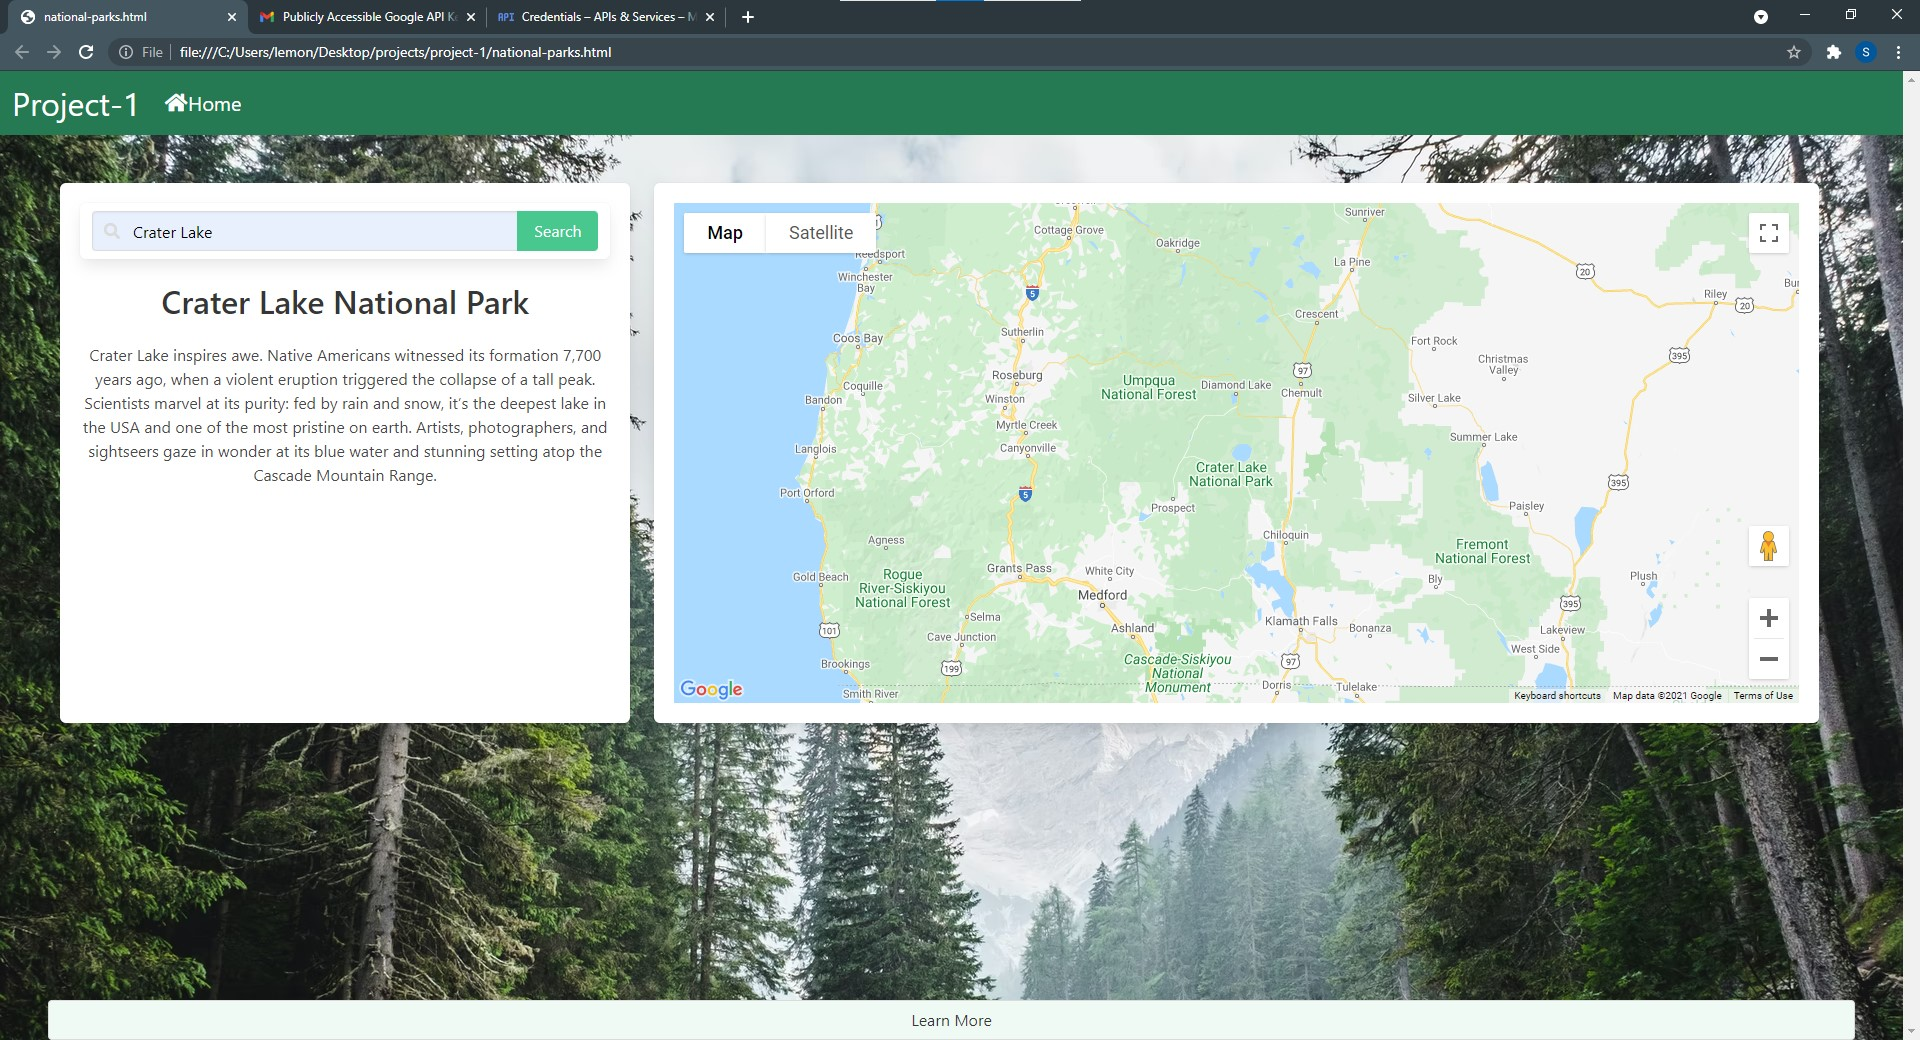
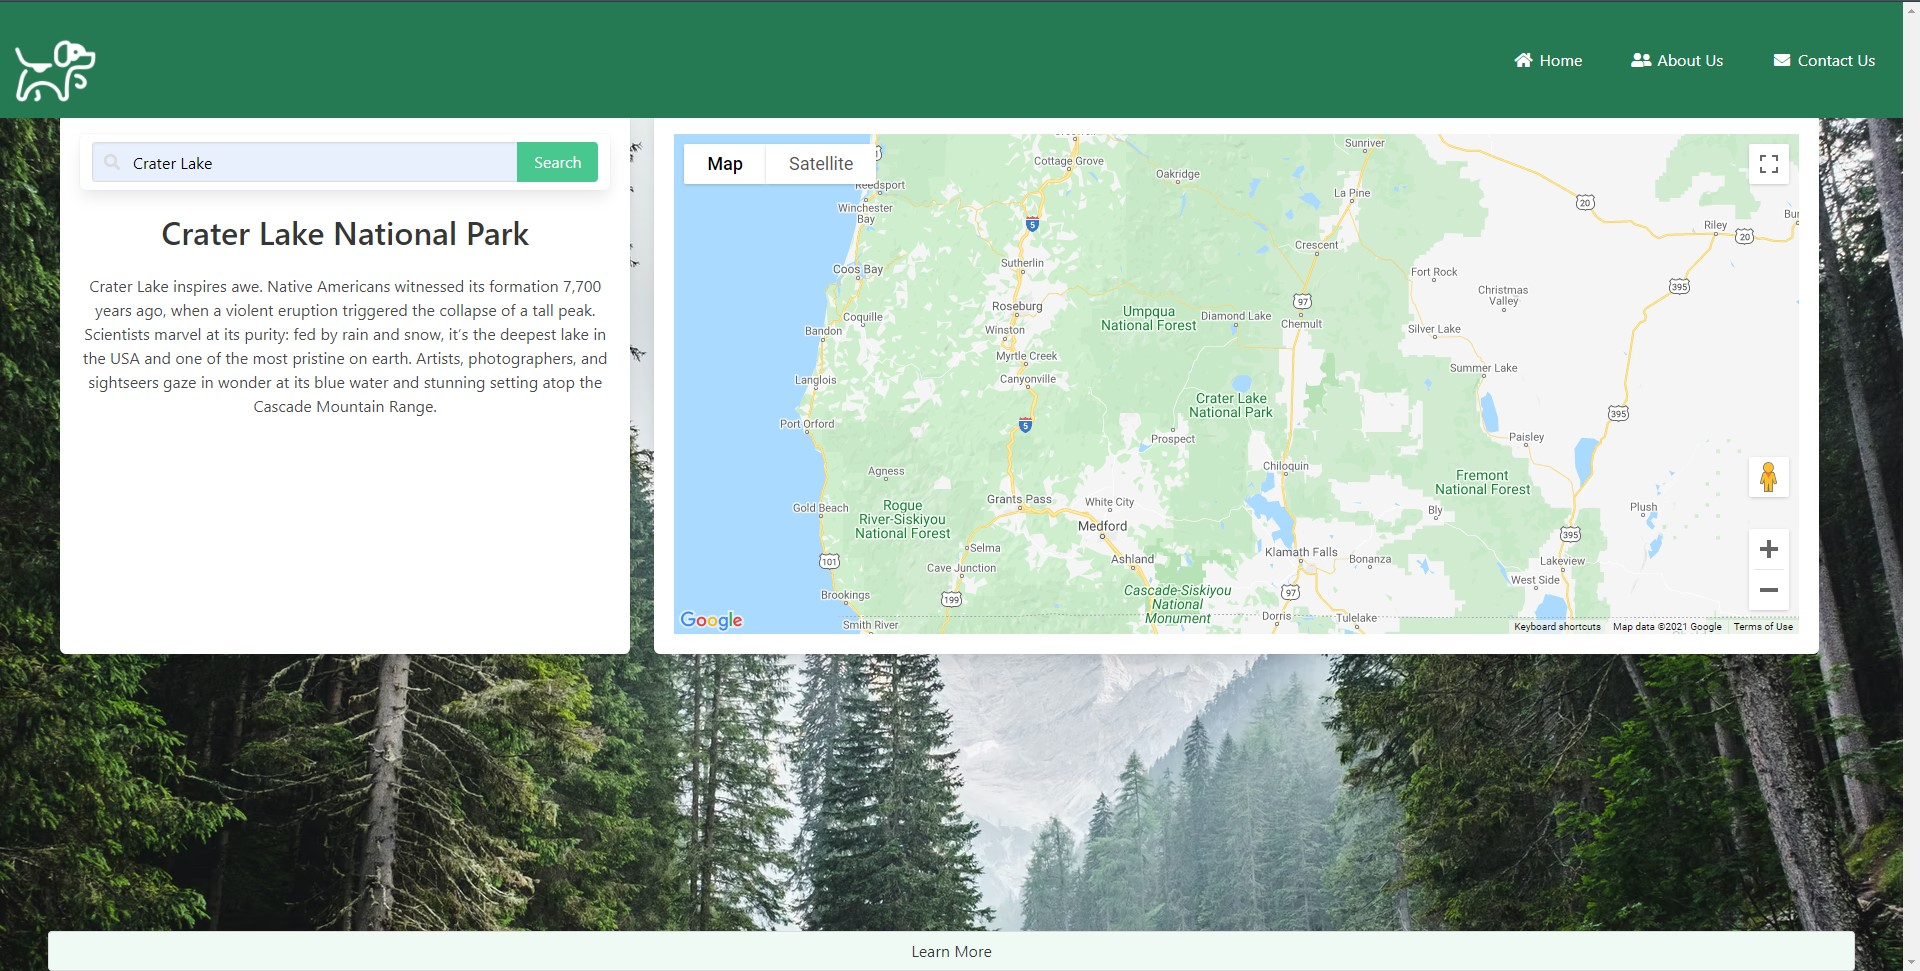
update README.md

diff --git a/national-parks.html b/national-parks.html
@@ -15,6 +15,7 @@
         <div class="navbar-brand">
             <span class="navbar-item has-text-white is-size-3"></h1>
                 <img src="./images/icons8-dog-100.png" alt="site logo" style="max-height: 100px" class="py-2"/>
+                <p>Bark!</p>
             </span>
         </div>
         <div class="navbar-menu is-active">
@@ -68,26 +69,26 @@
                                 <button class="delete" id="contact-us-close" aria-label="close"></button>
                             </header>
                             <section class="modal-card-body has-background-success-light has-text-black">
-                                <h3>Project Member 1:</h3>
+                                <h3>Luis Alonso Gallardo:</h3>
                                 <ul>
                                     <li>
-                                        <a href="githubrepositoryhere">GitHub</a>
+                                        <a href="https://github.com/L-Alonso">GitHub</a>
                                     </li>
-                                    <li><a href="mailto:(your email here)">Email</a></li>
+                                    <li><a href="mailto:(Alonso_l@icloud.com)">iCloud</a></li>
                                 </ul>
                                 <h3>Shayne Lemons:</h3>
                                 <ul>
                                     <li>
                                         <a href="https://github.com/SLemons6">GitHub</a>
                                     </li>
-                                    <li><a href="mailto:lemonsshayne6@gmail.com">Email</a></li>
+                                    <li><a href="mailto:lemonsshayne6@gmail.com">Gmail</a></li>
                                 </ul>
                                 <h3>Ben Tantillo:</h3>
                                 <ul>
                                     <li>
                                         <a href="https://github.com/BTantillo">GitHub</a>
                                     </li>
-                                    <li><a href="mailto:bentantillo@gmail.com">Email</a></li>
+                                    <li><a href="mailto:bentantillo@gmail.com">Gmail</a></li>
                                 </ul>
                             </section>
                         </div>

diff --git a/index.html b/index.html
@@ -87,9 +87,9 @@
                                 <h3>Ben Tantillo:</h3>
                                 <ul>
                                     <li>
-                                        <a href="githubrepositoryhere">GitHub</a>
+                                        <a href="https://github.com/BTantillo">GitHub</a>
                                     </li>
-                                    <li><a href="mailto:(your email here)">Email</a></li>
+                                    <li><a href="mailto: bentantillo@gmail.com">Email</a></li>
                                 </ul>
                             </section>
                         </div>

diff --git a/js/script.js b/js/script.js
@@ -68,12 +68,17 @@ function parkSearch(parkName) {
         .catch(function(error) {
             console.error(error);
         });
+    localStorage.setItem(parkName, parkName);
+
+
 }
+
 
 // begin national park name search on button click
 $("#search-btn").click(function() {
     var searchInput = searchParkEl.val();
     parkSearch(searchInput);
+
 });
 
 // show about us info when button is clicked on navbar

diff --git a/js/home.js b/js/home.js
@@ -16,9 +16,5 @@ $("#contact-us-btn").click(function() {
 // close contact us info
 $("#contact-us-close").click(function() {
     $("#contact-us-modal").removeClass("is-active")
-});
-
-document.getElementById('').onsubmit = function() {
-    window.location = '' + document.getElementById('test').value;
-    return false;
-}
+});©
+2021 GitHub, Inc.

diff --git a/README.md b/README.md
@@ -14,9 +14,10 @@ and other canine-friendly venues to enjoy with their furry friends.
 * National Park Service API (https://www.nps.gov/subjects/developer/index.htm)
 
 ## Website 
-https://
+https://btantillo.github.io/bark
 
-<img src="" alt="Screenshot of website"/>
+<img src="./images/home-page screenshot.jpg" alt="Screenshot of homepage"/>
+<img src="./images/home-page screenshot.jpg" alt="Screenshot of national park page"/>
 
 ## Contribution 
 Made by Luis Gallardo, Shayne Lemons, and Ben Tantillo
